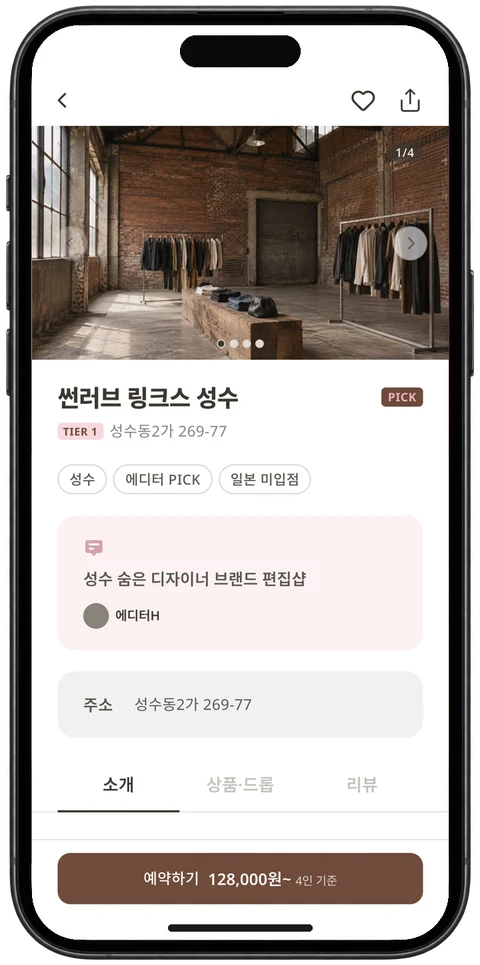
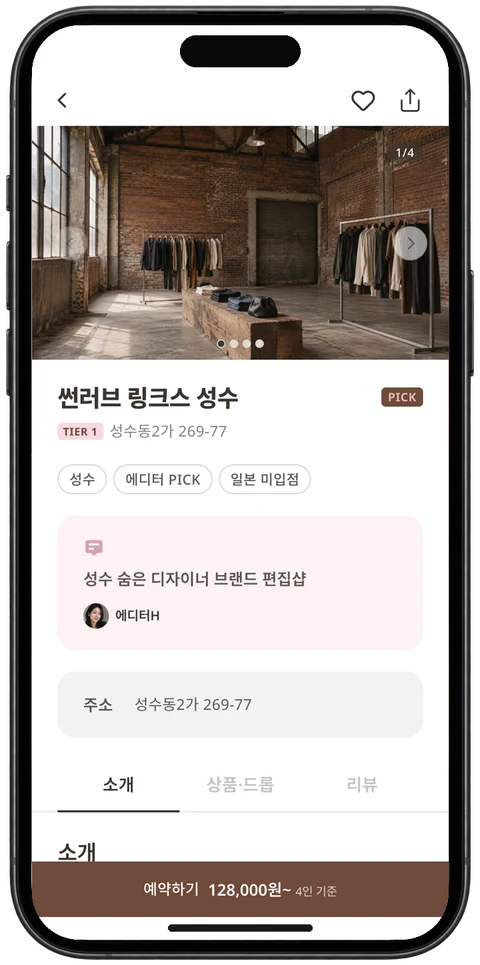
Spots 목업 4장(국문·영문)의 에디터H 프로필 동그라미를 에디터 사진으로 교체

Changed region(s): [[0.0625, 0.8705, 0.9375, 0.9637], [0.1562, 0.6218, 0.2188, 0.6528]]

diff --git a/index.html b/index.html
@@ -150,7 +150,7 @@
             <span class="tier-badge" data-i18n="tier-badge-pick">11월 오픈</span>
             <p class="tier__more" data-i18n-html="tier-discover-more">에디터가 엄선한 매장과 브랜드 이야기를<br>큐레이션 카드로 무료 열람</p>
             <div class="tier__shot">
-              <img src="src/assets/spots-discover-phone.webp" data-i18n-src="spots-discover-img" data-i18n-alt="spots-discover-alt" width="480" height="965" alt="앱 홈의 에디터 큐레이션 피드 화면" loading="lazy" decoding="async">
+              <img src="src/assets/spots-discover-phone.webp?v=2" data-i18n-src="spots-discover-img" data-i18n-alt="spots-discover-alt" width="480" height="965" alt="앱 홈의 에디터 큐레이션 피드 화면" loading="lazy" decoding="async">
             </div>
           </li>
           <li class="tier tier--open">
@@ -159,7 +159,7 @@
             <span class="tier-badge" data-i18n="tier-badge-pick">11월 오픈</span>
             <p class="tier__more" data-i18n-html="tier-daydrop-more">에디터와 함께 매장을 돌며 단품을 고르는<br>동행 쇼핑 큐레이션. 128,000원부터(4인 기준)</p>
             <div class="tier__shot">
-              <img src="src/assets/spots-daydrop-phone.webp" data-i18n-src="spots-daydrop-img" data-i18n-alt="spots-daydrop-alt" width="480" height="965" alt="앱의 매장 상세 화면과 예약 금액" loading="lazy" decoding="async">
+              <img src="src/assets/spots-daydrop-phone.webp?v=2" data-i18n-src="spots-daydrop-img" data-i18n-alt="spots-daydrop-alt" width="480" height="965" alt="앱의 매장 상세 화면과 예약 금액" loading="lazy" decoding="async">
             </div>
           </li>
           <li class="tier">
@@ -371,6 +371,6 @@
   </footer>
 
   <script src="https://cdnjs.cloudflare.com/ajax/libs/maplibre-gl/4.7.1/maplibre-gl.min.js" defer></script>
-  <script src="src/site.js?v=18"></script>
+  <script src="src/site.js?v=19"></script>
 </body>
 </html>

diff --git a/src/site.js b/src/site.js
@@ -41,8 +41,8 @@ const translations = {
     'tier-discover-desc': '무료 디지털 매거진',
     'tier-daydrop-title': 'DAY DROP',
     'tier-daydrop-desc': '반나절 단품 큐레이션',
-    'spots-discover-img': 'src/assets/spots-discover-phone.webp',
-    'spots-daydrop-img': 'src/assets/spots-daydrop-phone.webp',
+    'spots-discover-img': 'src/assets/spots-discover-phone.webp?v=2',
+    'spots-daydrop-img': 'src/assets/spots-daydrop-phone.webp?v=2',
     'spots-discover-alt': '앱 홈의 에디터 큐레이션 피드 화면',
     'spots-daydrop-alt': '앱의 매장 상세 화면과 예약 금액',
     'tier-discover-more': '에디터가 엄선한 매장과 브랜드 이야기를<br>큐레이션 카드로 무료 열람',
@@ -147,8 +147,8 @@ const translations = {
     'tier-discover-desc': 'Free digital magazine',
     'tier-daydrop-title': 'DAY DROP',
     'tier-daydrop-desc': 'Half-day single curation',
-    'spots-discover-img': 'src/assets/spots-discover-phone-en.webp',
-    'spots-daydrop-img': 'src/assets/spots-daydrop-phone-en.webp',
+    'spots-discover-img': 'src/assets/spots-discover-phone-en.webp?v=2',
+    'spots-daydrop-img': 'src/assets/spots-daydrop-phone-en.webp?v=2',
     'spots-discover-alt': 'Editor curation feed on the app home screen',
     'spots-daydrop-alt': 'Shop detail screen in the app with the booking price',
     'tier-discover-more': 'Read editor-picked shops and brand stories<br>as free curation cards',
